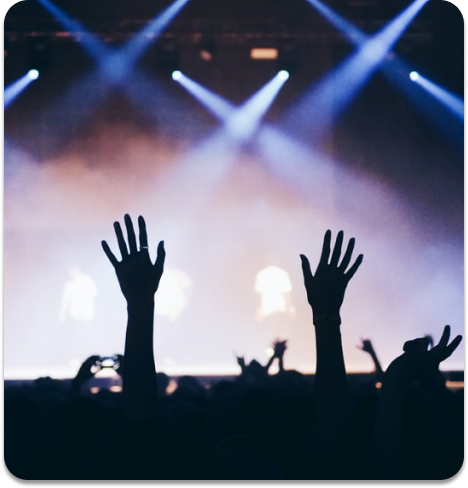
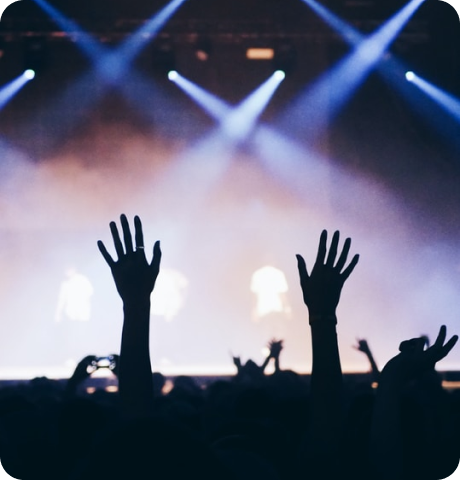
update

diff --git a/src/components/About/styles.module.scss b/src/components/About/styles.module.scss
@@ -1,22 +1,33 @@
 .container {
   display: flex;
-  justify-content: center;
   margin-top: 8.25rem;
-  margin-bottom: 11.94rem;
+  margin-bottom: 9.32rem;
   align-items: center;
-  column-gap: 4.38rem;
-  row-gap: 3rem;
+  justify-content: center;
+  gap: 4.38rem;
 }
 
-.image {
-  max-width: 33.125;
+.containerImages {
+  // max-width: 33.125;
   width: 100%;
-  display: flex;
-  align-items: center;
+  display: grid;
+  grid-template-columns: 1fr;
+  transform: translate(1.5rem, 1.5rem);
 
   & img {
     object-fit: contain;
-    margin-left: -0.5rem;
+    grid-area: 1/1;
+    z-index: 1;
+    cursor: pointer;
+    transition: 0.5s;
+
+    &:first-child {
+      transform: translate(2.19rem, 2.19rem);
+    }
+
+    &:last-child {
+      transform: translate(-2.19rem, -2.19rem);
+    }
   }
 }
 
@@ -34,23 +45,38 @@
   }
 }
 
-@media (max-width: 60rem) {
+// @media (max-width: 80.625rem) {
+//   .container {
+//     grid-template-columns: 1fr;
+//   }
+
+//   .content {
+//     max-width: 41.875rem;
+//   }
+// }
+
+@media (max-width: 68.75rem) {
   .container {
-    margin-top: 4rem;
-    flex-direction: column;
+    flex-direction: column-reverse;
+    margin-bottom: 0;
   }
-  .image {
-    justify-content: center;
+  .containerImages {
+    max-width: calc(100% - 4.18rem);
+    margin-right: 2.8rem;
+    place-items: center;
+  }
+
+  .content {
+    max-width: 41.875rem;
   }
 }
 
 @media (max-width: 30rem) {
   .container {
-    margin: 0;
-    gap: 2rem;
+    margin-top: 5rem;
   }
 
-  .content {
-    margin-top: -5rem;
+  .containerImages {
+    margin-top: -3rem;
   }
 }

diff --git a/src/components/About/index.tsx b/src/components/About/index.tsx
@@ -2,15 +2,36 @@ import styles from './styles.module.scss';
 
 import Image from 'next/image';
 
-import imageShows from '@/assets/shows-about.png';
+import { useState } from 'react';
+
 import { Title } from '../Title';
 import { Button } from '../Button';
 
+import imageAbout1 from '../../../public/images/about/about-1.png';
+import imageAbout2 from '../../../public/images/about/about-2.png';
+
 export const About = () => {
+  const [imageBlur, setImageBlur] = useState('image2');
+
   return (
     <section className={`${styles.container} limitedSection`}>
-      <div className={styles.image}>
-        <Image src={imageShows} alt="ImageShows" width={530} height={530} />
+      <div className={styles.containerImages}>
+        <Image
+          src={imageAbout1}
+          alt="ImageShows"
+          width={480}
+          height={480}
+          onClick={() => setImageBlur('image2')}
+          style={imageBlur === 'image1' ? { zIndex: 0, opacity: '30%' } : {}}
+        />
+        <Image
+          src={imageAbout2}
+          alt="ImageShows"
+          width={480}
+          height={480}
+          onClick={() => setImageBlur('image1')}
+          style={imageBlur === 'image2' ? { zIndex: 0, opacity: '30%' } : {}}
+        />
       </div>
 
       <div className={styles.content}>

diff --git a/src/components/Singers/styles.module.scss b/src/components/Singers/styles.module.scss
@@ -1,4 +1,5 @@
 .container {
+  padding-top: 8rem;
   display: grid;
   grid-template-columns: 1fr 41.875rem;
   place-items: center;
@@ -87,7 +88,7 @@
   }
 }
 
-@media (max-width: 80.625rem) {
+@media (max-width: 68.75rem) {
   .container {
     grid-template-columns: 1fr;
   }
